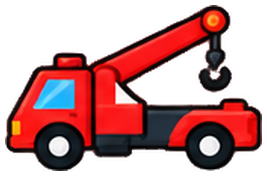
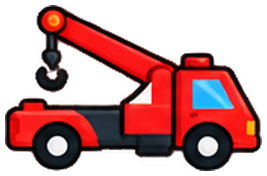
Update Site source

diff --git a/scripts/export-illustrations.py b/scripts/export-illustrations.py
@@ -33,16 +33,22 @@ def main() -> None:
                 min(rgba.height, bottom + padding),
             )
             trimmed = rgba.crop(crop)
+            mirrored = source.name == "11_tow-truck.png"
+            if mirrored:
+                trimmed = trimmed.transpose(Image.Transpose.FLIP_LEFT_RIGHT)
             output = OUTPUT / source.name
             trimmed.save(output, format="PNG", optimize=True)
-            entries.append({
+            entry = {
                 "file": source.name,
                 "source": f"assets/illustrations/individual/png/{source.name}",
                 "sourceSize": [rgba.width, rgba.height],
                 "trimRect": list(crop),
                 "size": [trimmed.width, trimmed.height],
                 "bytes": output.stat().st_size,
-            })
+            }
+            if mirrored:
+                entry["mirrored"] = True
+            entries.append(entry)
 
     MANIFEST.write_text(json.dumps({"version": 1, "assets": entries}, ensure_ascii=False, indent=2) + "\n", encoding="utf-8")
     total_bytes = sum(item["bytes"] for item in entries)

diff --git a/docs/delivery-visual-feedback.md b/docs/delivery-visual-feedback.md
@@ -1,0 +1,13 @@
+# 快递站画面反馈（待统一调整）
+
+以下问题来自 2026-10-27 的实际游玩反馈。除拖车朝向外，本轮只记录，不调整画面。
+
+| 问题 | 后续调整方向 | 状态 |
+| --- | --- | --- |
+| 装货后包裹叠在车顶，显得突兀 | 用简短入车动画和车厢内数量提示表达已装货；保留记忆题的遮挡规则 | 待处理 |
+| 运送途中消防站突然出现 | 梳理行驶和到站两个画面的地点切换，让目的地随路程自然出现 | 待处理 |
+| 图片首次加载偏慢 | 预加载当前画面和即将用到的素材，核对冷缓存加载，不一次加载全部素材 | 待处理 |
+| 树与房子的大小比例不协调 | 统一地面基线和场景尺度，调整树、房屋与车辆的相对尺寸；核对横竖屏 | 待处理 |
+| 拖车朝向与行驶方向相反 | 导出运行时素材时单独翻转拖车，原图保留 | 已调整，待线上核对 |
+
+统一调整时，先做仓库、消防站和工地的横竖屏对照，再检查送货流程中的场景连续性。
